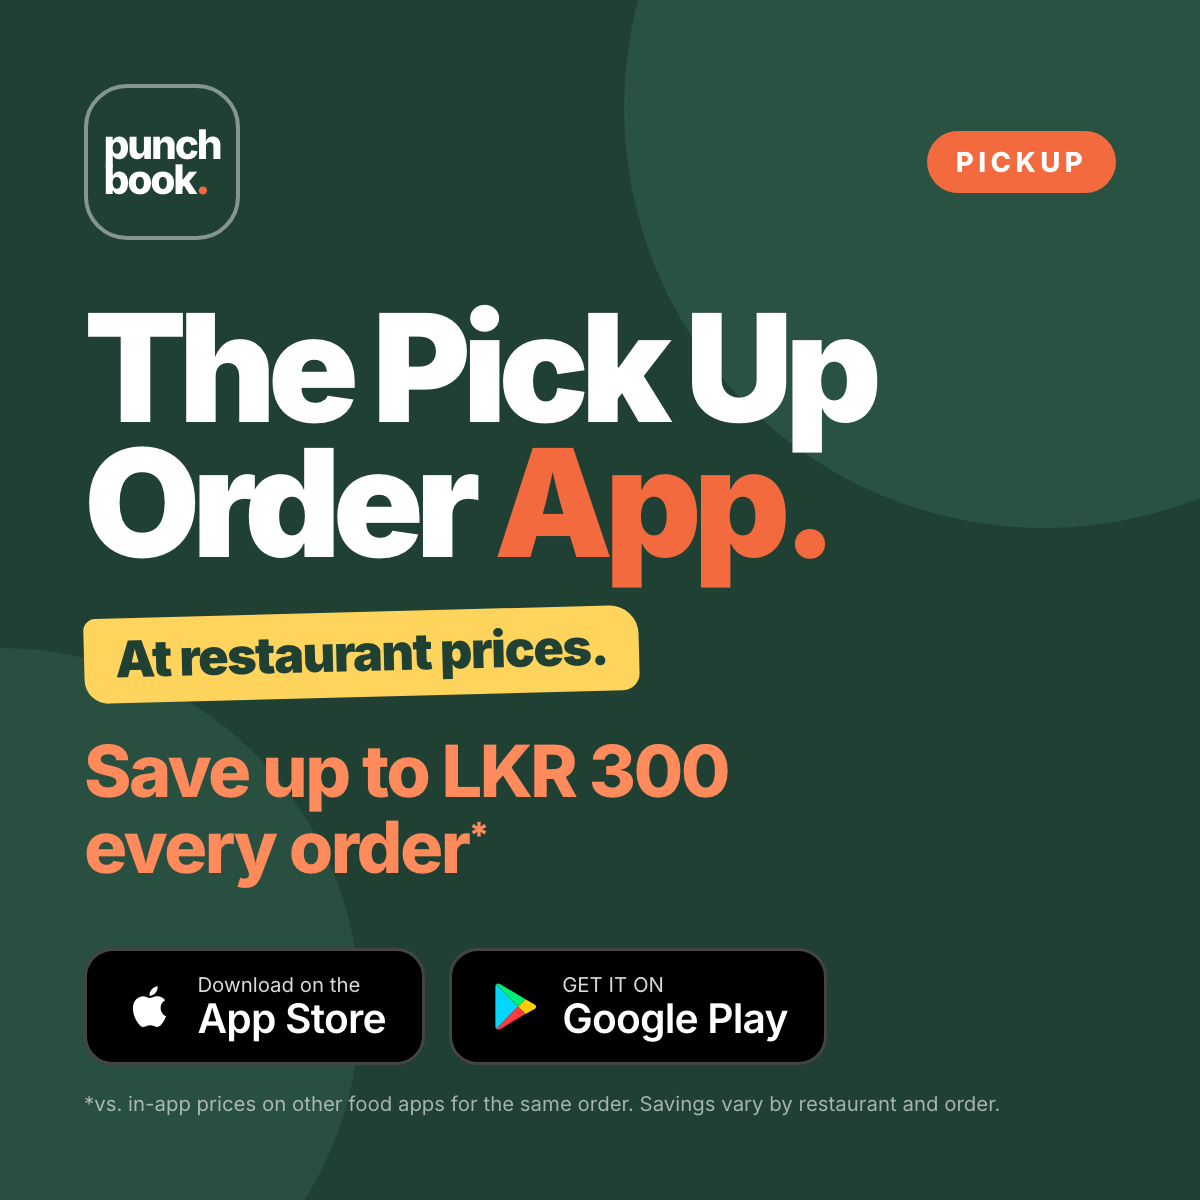
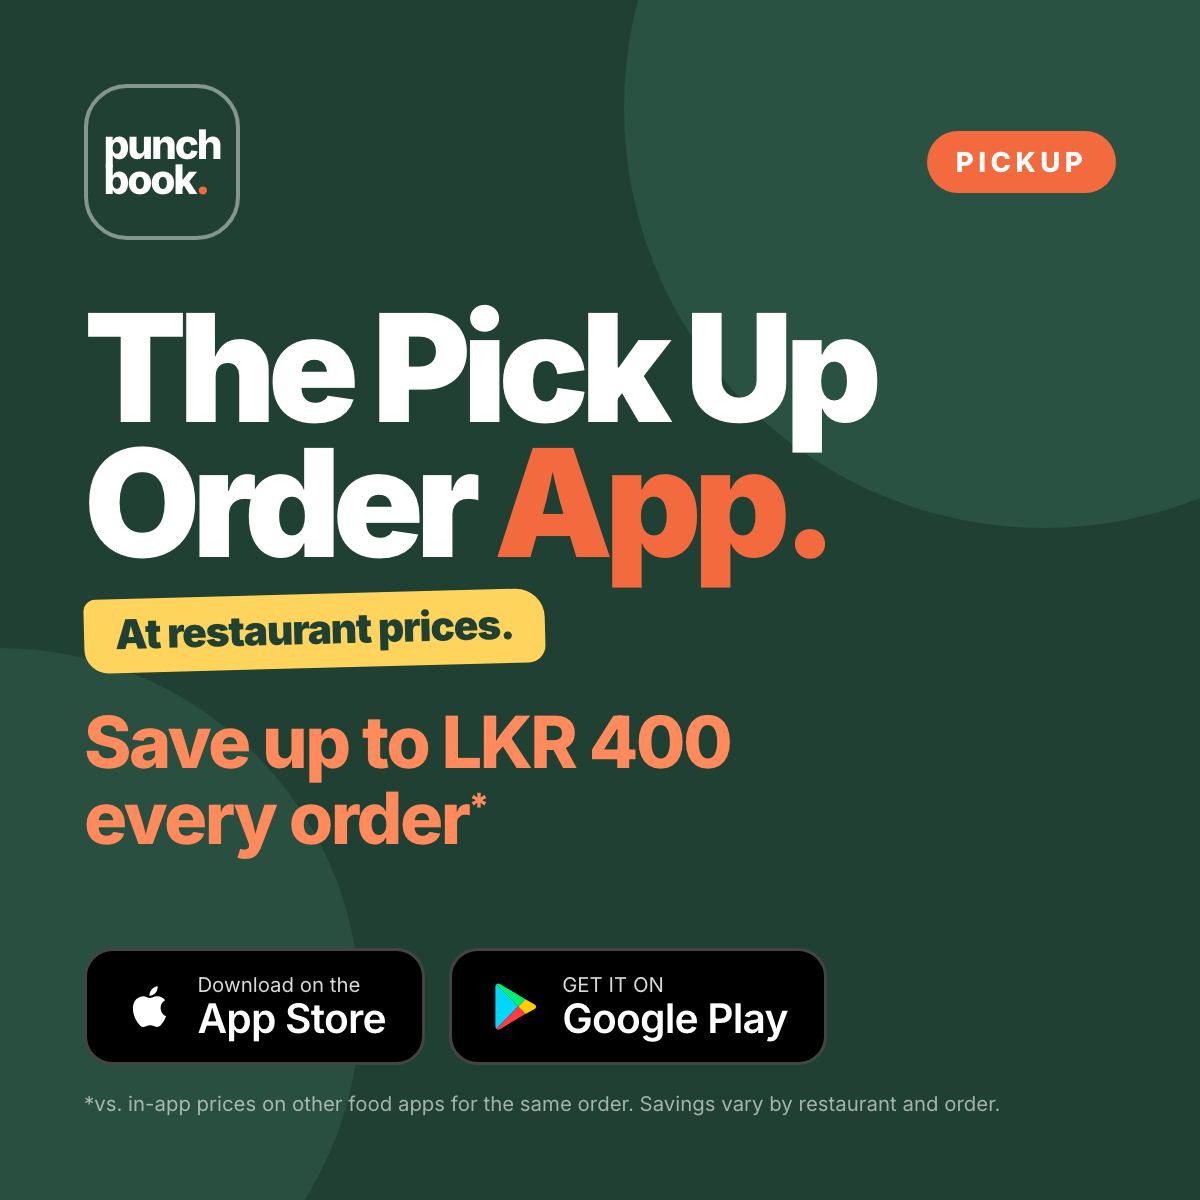
Up to LKR 400 savings claim; two new ad concepts (queue, on hold); 'Walk in. Walk out.' headline

Changed region(s): [[0.0617, 0.4933, 0.6167, 0.74]]

diff --git a/marketing/ads/src/ad.html b/marketing/ads/src/ad.html
@@ -57,6 +57,39 @@ h1 em{font-style:normal;color:var(--orange)}
 .land .col{flex:1;display:flex;flex-direction:column;height:100%}
 .land h1{font-size:13vmin;margin-top:3vmin}
 .land .side{flex:none;display:flex;align-items:center;justify-content:center;height:100%}
+/* ---------- scene: queue ---------- */
+.scene{position:relative;width:86vmin;margin:0 auto}
+.q{position:relative;height:40vmin;display:flex;align-items:flex-end;gap:1.5vmin;padding:0 2vmin;border-bottom:.5vmin solid rgba(255,255,255,.25)}
+.p{position:relative;flex:none;width:6.4vmin;height:var(--h);background:var(--c);border-radius:3.2vmin 3.2vmin .8vmin .8vmin}
+.p:before{content:"";position:absolute;width:5vmin;height:5vmin;border-radius:50%;background:var(--c);left:.7vmin;top:-5.8vmin}
+.p.you{--c:var(--orange);margin-left:auto}
+.p.you:after{content:"";position:absolute;width:4.4vmin;height:4.4vmin;right:-3.4vmin;top:45%;background:#f3e2c4;border-radius:.6vmin .6vmin 1vmin 1vmin;box-shadow:inset 0 1vmin 0 #e1c999}
+.counter{flex:none;width:15vmin;height:17vmin;background:var(--cream);border-radius:1.4vmin 1.4vmin 0 0;position:relative;margin-left:3vmin}
+.counter:before{content:"PICKUP";position:absolute;left:0;right:0;top:-5vmin;height:4vmin;border-radius:1vmin;background:var(--orange);color:#fff;font-weight:900;font-size:1.9vmin;letter-spacing:.14em;display:grid;place-items:center}
+.bub{position:absolute;background:#fff;color:var(--ink);font-weight:700;font-size:2.1vmin;padding:1vmin 1.6vmin;border-radius:1.6vmin;white-space:nowrap;box-shadow:0 1vmin 2vmin -1vmin rgba(0,0,0,.4)}
+.bub:after{content:"";position:absolute;left:1.6vmin;bottom:-1vmin;border:1vmin solid transparent;border-top-color:#fff;border-bottom:0}
+.chip{position:absolute;background:#fff;color:var(--ok);font-weight:800;font-size:2.2vmin;padding:1.1vmin 1.8vmin;border-radius:99px;white-space:nowrap;box-shadow:0 1vmin 2vmin -1vmin rgba(0,0,0,.45)}
+.arc{position:absolute;left:4vmin;right:16vmin;top:0;height:14vmin;overflow:visible}
+/* ---------- scene: on hold ---------- */
+.call{position:relative;width:86vmin;height:50vmin;margin:0 auto}
+.cphone{position:absolute;left:50%;top:0;transform:translateX(-50%) rotate(-4deg);width:32vmin;height:50vmin;background:#1a1511;border-radius:5vmin;padding:1.2vmin;box-shadow:0 4vmin 7vmin -3vmin rgba(0,0,0,.6)}
+.cscr{height:100%;border-radius:4vmin;background:linear-gradient(#3a3f46,#1d2126);display:flex;flex-direction:column;align-items:center;padding-top:6vmin;color:#fff}
+.av{width:11vmin;height:11vmin;border-radius:50%;background:#6b7380;display:grid;place-items:center;font-weight:800;font-size:4vmin}
+.cn{font-size:3.2vmin;font-weight:700;margin-top:2vmin;letter-spacing:-.02em}
+.cs{font-size:2vmin;opacity:.75;margin-top:.6vmin}
+.hold{margin-top:2.6vmin;font-size:3.4vmin;font-weight:400;white-space:nowrap;letter-spacing:.02em;font-variant-numeric:tabular-nums}
+.notes{font-size:2.6vmin;opacity:.6;margin-top:1vmin;letter-spacing:.6vmin}
+.cbtns{margin-top:auto;margin-bottom:5vmin;display:flex;gap:3vmin}
+.cbtns i{width:6vmin;height:6vmin;border-radius:50%;background:rgba(255,255,255,.18)}
+.cbtns i.end{background:#e5484d;position:relative}
+.cbtns i.end:after{content:"";position:absolute;left:1.5vmin;right:1.5vmin;top:2.6vmin;height:.9vmin;border-radius:1vmin;background:#fff}
+.call .bub{font-size:2.3vmin;padding:1.3vmin 2vmin}
+.call .bub.r:after{left:auto;right:1.6vmin}
+.call .bub.red{background:#ffe1dc;color:#b42318}.call .bub.red:after{border-top-color:#ffe1dc}
+.scene-feed h1{font-size:11vmin}
+.c4 h1{font-size:8.6vmin}
+.sq.scene-feed h1{font-size:8vmin;margin-top:3vmin}.sq .sub{font-size:3.4vmin;margin-top:2vmin}.sq .scene,.sq .call{zoom:.7}
+.cscr>*{flex:none}
 </style></head>
 <body><div class="blob b1"></div><div class="blob b2"></div><div class="wrap" id="w"></div>
 <script>
@@ -69,15 +102,20 @@ const stores=`<div class="stores"><div class="store">${apple}<span><small>Downlo
 const fine=`<p class="fine">*vs. in-app prices on other food apps for the same order. Savings vary by restaurant and order.</p>`;
 const phone=`<div class="phone"><div class="screen"><div class="dish"><div class="bowl"><i style="width:3.4vmin;height:3.4vmin;background:#ee7d2f;left:2.6vmin"></i><i style="width:3vmin;height:3vmin;background:#69a43c;left:7vmin;top:-3.2vmin"></i><i style="width:3.6vmin;height:3.6vmin;background:#a6452c;left:11vmin;top:-3vmin"></i><i style="width:3vmin;height:3vmin;background:#69a43c;left:15vmin"></i></div></div><div class="card"><div class="k">Amra Leaf · Negombo</div><h3>Mix Kottu</h3><div class="row"><span>Menu price</span><b>LKR 1,995</b></div><div class="ready">◷ Ready in 15 min</div><div class="btn">Order for pickup</div></div></div></div>`;
 const ticket=`<div class="ticket"><div class="k">PICKUP CODE</div><div class="code">PB-7KQ2M</div><span class="st">✓ Ready at the counter</span></div>`;
+const queue=`<div class="scene"><svg class="arc" viewBox="0 0 100 20" preserveAspectRatio="none"><path d="M2 19 Q50 -12 98 17" fill="none" stroke="#ff8a5c" stroke-width=".7" stroke-dasharray="2 1.6" vector-effect="non-scaling-stroke" style="stroke-width:.5vmin"/></svg><div class="q"><i class="p" style="--h:21vmin;--c:#4f7d69"></i><i class="p" style="--h:24vmin;--c:#5d8a75"></i><i class="p" style="--h:19vmin;--c:#47735f"></i><i class="p" style="--h:23vmin;--c:#628f7a"></i><i class="p" style="--h:20vmin;--c:#507e6a"></i><i class="p" style="--h:25vmin;--c:#5a8771"></i><i class="p" style="--h:18vmin;--c:#4a7763"></i><i class="p you" style="--h:23vmin"></i><div class="counter"></div></div><span class="bub" style="left:16vmin;top:7.5vmin">ugh.</span><span class="bub" style="left:46vmin;top:8.5vmin">20 min already…</span><span class="chip" style="right:1vmin;top:3vmin">✓ PB-7KQ2M ready</span></div>`;
+const call=`<div class="call"><div class="cphone"><div class="cscr"><div class="av">AL</div><div class="cn">Amra Leaf</div><div class="cs">calling…</div><div class="hold">On hold 12:47</div><div class="notes">♪ ♫ ♪</div><div class="cbtns"><i></i><i></i><i class="end"></i></div></div></div><span class="bub" style="left:0;top:4vmin">Sorry, can you repeat that?</span><span class="bub red r" style="right:0;top:13vmin">Line busy</span><span class="bub" style="left:3vmin;top:27vmin">One kottu or two?</span><span class="bub red r" style="right:2vmin;top:36vmin">📞 Missed call ×3</span></div>`;
 const C={
- '1':{h:`The Pick Up<br>Order <em>App.</em>`,body:`<p class="sub"><span class="hl">At restaurant prices.</span></p><p class="save">Save up to LKR 300<br>every order<sup>*</sup></p>`,side:phone,fine:1},
- '2':{h:`Same food.<br><em>Less to pay.</em>`,body:`<div class="cmp"><div class="us">Punchbook <span>Menu price</span></div><div class="them">Other apps <span>Up to LKR 300 more</span></div></div>`,side:phone,fine:1},
- '3':{h:`Ready when<br>you <em>are.</em>`,body:`<p class="sub">Order ahead. Walk in. Show your code.<br>Walk out with your food.</p>`,side:ticket,fine:0},
+ '1':{h:`The Pick Up<br>Order <em>App.</em>`,body:`<p class="sub"><span class="hl">At restaurant prices.</span></p><p class="save">Save up to LKR 400<br>every order<sup>*</sup></p>`,side:phone,fine:1},
+ '2':{h:`Same food.<br><em>Less to pay.</em>`,body:`<div class="cmp"><div class="us">Punchbook <span>Menu price</span></div><div class="them">Other apps <span>Up to LKR 400 more</span></div></div>`,side:phone,fine:1},
+ '3':{h:`Walk in.<br>Walk <em>out.</em>`,body:`<p class="sub">Order ahead. Show your code.<br>Grab your food and go.</p>`,side:ticket,fine:0},
+ '4':{h:`Everyone’s in line.<br>Except <em>you.</em>`,body:`<p class="sub">Order ahead. Walk straight to the counter.</p>`,side:queue,fine:0,scene:1},
+ '5':{h:`Still on <em>hold?</em>`,body:`<p class="sub">Skip the call. Order in the app,<br>at the menu price.</p>`,side:call,fine:0,scene:1},
 };
 const d=C[c];let html;
 if(land){html=`<div class="col">${head}<h1>${d.h}</h1>${d.body}<div class="spacer"></div>${stores}${d.fine?fine:''}</div><div class="side">${d.side}</div>`}
-else{html=`${head}<h1>${d.h}</h1>${d.body}<div class="spacer"></div>${story?`<div class="center" style="margin:4vmin 0">${d.side}</div><div class="spacer"></div>`:''}${stores}${d.fine?fine:''}`}
+else{html=`${head}<h1>${d.h}</h1>${d.body}<div class="spacer"></div>${(story||d.scene)?`<div class="center" style="margin:4vmin 0">${d.side}</div><div class="spacer"></div>`:''}${stores}${d.fine?fine:''}`}
 document.getElementById('w').innerHTML=html;
-const sq=Math.abs(innerWidth/innerHeight-1)<.1;
-if(!land&&!story&&!sq){document.body.classList.add('feed');const s=document.createElement('div');s.style.cssText=c==='3'?'position:absolute;right:5vmin;bottom:12vmin;z-index:0;transform:scale(.6);transform-origin:right bottom':'position:absolute;right:-3vmin;bottom:-12vmin;z-index:0;transform:rotate(6deg)';s.innerHTML=d.side;document.body.appendChild(s);document.querySelector('.wrap').style.paddingRight='7vmin'}
+const sq=Math.abs(innerWidth/innerHeight-1)<.1;if(sq)document.body.classList.add('sq');
+if(d.scene&&!land)document.body.classList.add('scene-feed');document.body.classList.add('c'+c);
+if(!land&&!story&&!sq&&!d.scene){document.body.classList.add('feed');const s=document.createElement('div');s.style.cssText=c==='3'?'position:absolute;right:5vmin;bottom:12vmin;z-index:0;transform:scale(.6);transform-origin:right bottom':'position:absolute;right:-3vmin;bottom:-12vmin;z-index:0;transform:rotate(6deg)';s.innerHTML=d.side;document.body.appendChild(s);document.querySelector('.wrap').style.paddingRight='7vmin'}
 </script></body></html>

diff --git a/public/index.html b/public/index.html
@@ -4,7 +4,7 @@
 <meta charset="utf-8">
 <meta name="viewport" content="width=device-width,initial-scale=1">
 <title>Punchbook · The pick up order app</title>
-<meta name="description" content="Order ahead for pickup at restaurant menu prices. Other apps add up to LKR 300. Get Punchbook on the App Store and Google Play.">
+<meta name="description" content="Order ahead for pickup at restaurant menu prices. Other apps add up to LKR 400. Get Punchbook on the App Store and Google Play.">
 <meta name="theme-color" content="#1f4033">
 <link rel="icon" href="/images/punchbook-icon-192.png">
 <link rel="preconnect" href="https://fonts.googleapis.com"><link rel="preconnect" href="https://fonts.gstatic.com" crossorigin>
@@ -315,10 +315,10 @@ a:focus-visible{outline:3px solid var(--orange);outline-offset:3px;border-radius
       <span class="tag">PICKUP</span>
       <h1>The Pick Up<br>Order <em>App.</em></h1>
       <p class="lede"><strong>Order ahead. Pick up at the counter.</strong><br><span class="hl">At restaurant prices.</span></p>
-      <p class="save">Save up to LKR 300<br>every order<sup>*</sup></p>
+      <p class="save">Save up to LKR 400<br>every order<sup>*</sup></p>
       <div class="mini-cmp">
         <div class="us">Punchbook <span>Menu price</span></div>
-        <div class="them">Other apps <span>Up to LKR 300 more</span></div>
+        <div class="them">Other apps <span>Up to LKR 400 more</span></div>
       </div>
 
     </div>
@@ -376,13 +376,13 @@ a:focus-visible{outline:3px solid var(--orange);outline-offset:3px;border-radius
       <p class="eyebrow">Why Punchbook</p>
       <h2>Pay the <em>menu price.</em></h2>
       <p class="sub">Other apps add to every item. We don’t.</p>
-      <span class="saved">↓ LKR 300 back in your pocket</span>
+      <span class="saved">↓ LKR 400 back in your pocket</span>
     </div>
     <div class="receipts rv">
       <div class="receipt them">
         <h4>Other apps <span>MARKED UP</span></h4>
-        <ul><li><span>Mix Kottu</span><span>1,995</span></li><li class="mk"><span>App markup</span><span>+ 300</span></li></ul>
-        <div class="total"><span>Total</span><b>2,295</b></div>
+        <ul><li><span>Mix Kottu</span><span>1,995</span></li><li class="mk"><span>App markup</span><span>+ 400</span></li></ul>
+        <div class="total"><span>Total</span><b>2,395</b></div>
       </div>
       <div class="receipt us">
         <h4>Punchbook <span>MENU PRICE</span></h4>
@@ -461,7 +461,7 @@ a:focus-visible{outline:3px solid var(--orange);outline-offset:3px;border-radius
   var io=new IntersectionObserver(function(es){es.forEach(function(e){if(e.isIntersecting){e.target.classList.add('in');io.unobserve(e.target)}})},{threshold:.15});
   document.querySelectorAll('.rv').forEach(function(el){io.observe(el)});
   var nav=document.querySelector('.nav');function sc(){nav.classList.toggle('scrolled',scrollY>40)}sc();addEventListener('scroll',sc,{passive:true});
-  var pill=document.querySelector('.saved');if(pill&&!matchMedia('(prefers-reduced-motion:reduce)').matches){var t=pill.textContent,io2=new IntersectionObserver(function(es){if(!es[0].isIntersecting)return;io2.disconnect();var st=performance.now();(function f(n){var k=Math.min(1,(n-st)/900),v=Math.round(300*(1-Math.pow(1-k,3)));pill.textContent=t.replace('300',v);if(k<1)requestAnimationFrame(f)})(st)},{threshold:.6});io2.observe(pill)}
+  var pill=document.querySelector('.saved');if(pill&&!matchMedia('(prefers-reduced-motion:reduce)').matches){var t=pill.textContent,io2=new IntersectionObserver(function(es){if(!es[0].isIntersecting)return;io2.disconnect();var st=performance.now();(function f(n){var k=Math.min(1,(n-st)/900),v=Math.round(400*(1-Math.pow(1-k,3)));pill.textContent=t.replace('400',v);if(k<1)requestAnimationFrame(f)})(st)},{threshold:.6});io2.observe(pill)}
 })();
 </script>
 </body>

diff --git a/marketing/ads/ad-copy.md b/marketing/ads/ad-copy.md
@@ -10,7 +10,7 @@ Headlines (30 characters max)
 1. The Pick Up Order App
 2. Order Ahead, Skip the Queue
 3. At Restaurant Prices
-4. Save Up to LKR 300 an Order
+4. Save Up to LKR 400 an Order
 5. Same Food. Less to Pay.
 6. Pay the Menu Price
 7. Order Food for Pickup
@@ -25,7 +25,7 @@ Headlines (30 characters max)
 
 Descriptions (90 characters max)
 1. Order ahead, pay on your phone and pick up at the counter. At restaurant menu prices.
-2. Other food apps add up to LKR 300 an order. On Punchbook you pay the menu price.
+2. Other food apps add up to LKR 400 an order. On Punchbook you pay the menu price.
 3. Live updates from the kitchen and a pickup code to show at the counter. Free to download.
 4. Now taking orders at Amra Leaf, Negombo. More restaurants coming soon. Get the app.
 
@@ -39,10 +39,10 @@ Short headlines (30 max)
 - Ready When You Are
 
 Long headline (90 max)
-- Order ahead and pick up at the counter, at restaurant prices. Save up to LKR 300 an order.
+- Order ahead and pick up at the counter, at restaurant prices. Save up to LKR 400 an order.
 
 Descriptions (90 max)
-- Other food apps add up to LKR 300. On Punchbook you pay the menu price.
+- Other food apps add up to LKR 400. On Punchbook you pay the menu price.
 - Order ahead, pay on your phone, show your code at the counter. Free on iPhone and Android.
 
 Business name: Punchbook
@@ -53,11 +53,11 @@ Images: `instagram/feed-*.png` (1080 × 1350, feed), `instagram/story-*.png` (10
 
 Caption 1 (with feed-1, The Pick Up Order App)
 > Order ahead. Pick up at the counter. At restaurant prices. 🥡
-> Other food apps add up to LKR 300 to every order. Punchbook doesn't.
+> Other food apps add up to LKR 400 to every order. Punchbook doesn't.
 > Free on the App Store and Google Play. Link in bio.
 
 Caption 2 (with feed-2, Same food. Less to pay.)
-> Same food. Same restaurant. Up to LKR 300 less. 🍛
+> Same food. Same restaurant. Up to LKR 400 less. 🍛
 > Order on Punchbook and pay the menu price, not an app price.
 > Now live at Amra Leaf, Negombo.
 
